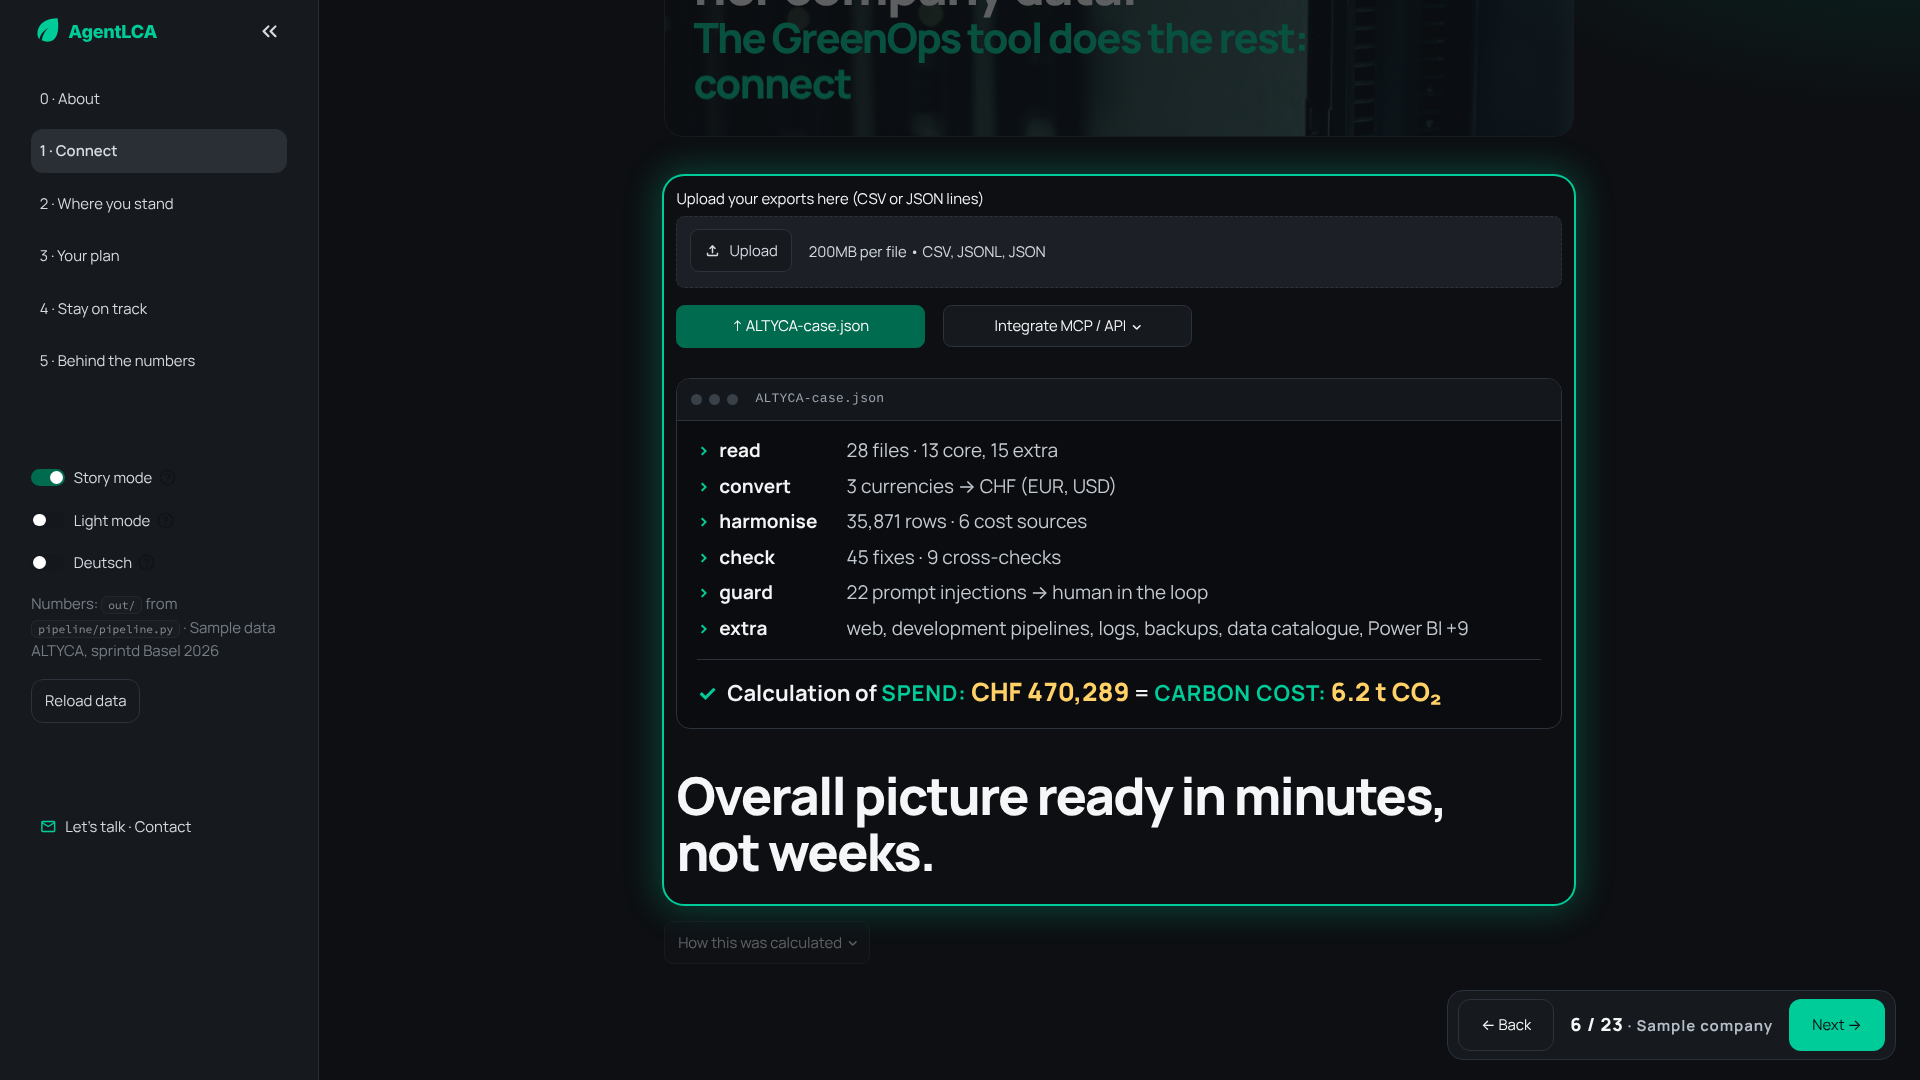
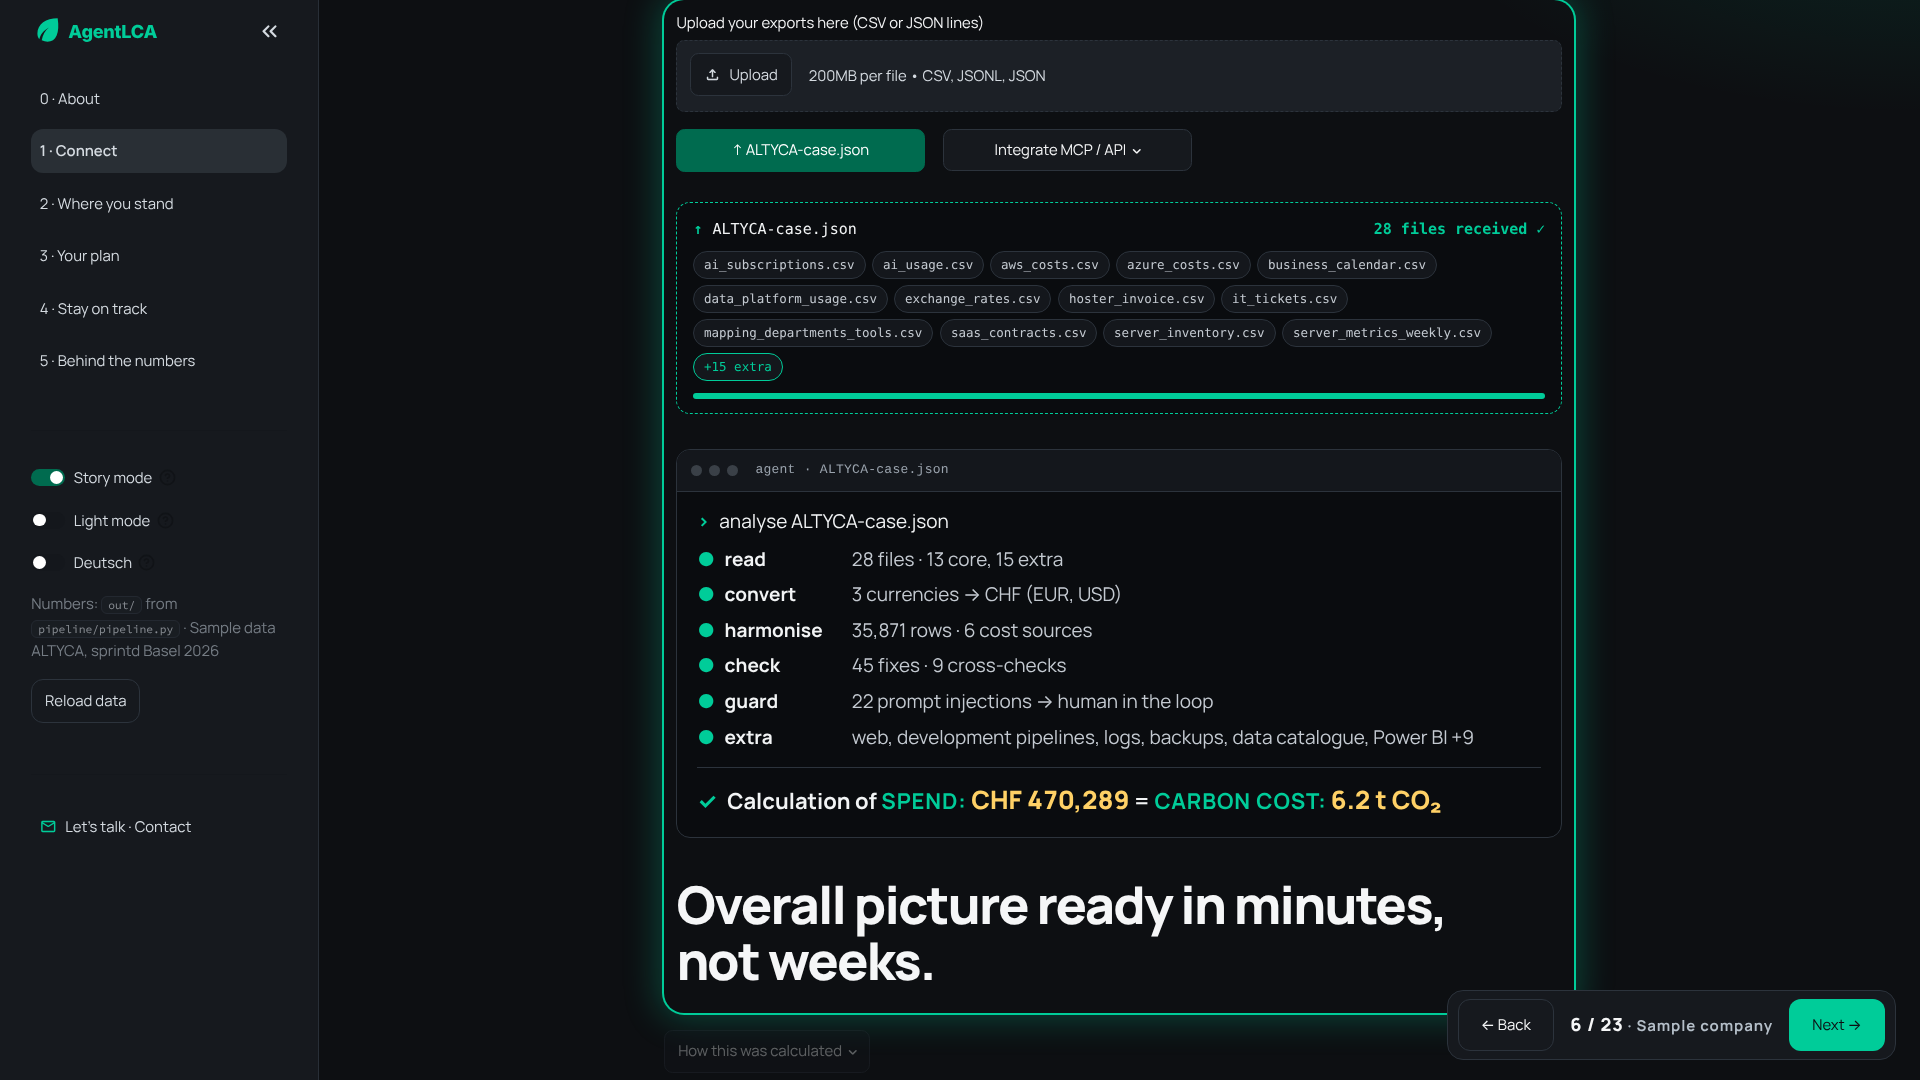
Connect demo: simulated upload (real file names drop in, bar fills, «28 files received») and a Claude-Code-like agent run (typed command, spinning «Working…», steps one by one, result line); CSS only, ≈4.5 s, static without motion
Claude-Session: https://claude.ai/code/session_01X3xYSMquWVTkknJRvK9B19

diff --git a/app/ui.py b/app/ui.py
@@ -48,6 +48,39 @@ def esc(text) -> str:
     return _html.escape(str(text))
 
 CSS = """<style>
+.gx-upsim{background:#0a0c0f;border:1px dashed var(--teal,#00cc99);border-radius:14px;padding:14px 16px;margin:14px 0 4px;}
+.gx-upsim .hd{display:flex;align-items:center;gap:10px;font-family:ui-monospace,SFMono-Regular,Menlo,Consolas,monospace;
+  font-size:15px;color:#f2f4f5;margin-bottom:10px;}
+.gx-upsim .ic{color:#00cc99;font-weight:800;}
+.gx-upsim .ok{margin-left:auto;color:#00cc99;font-weight:700;}
+.gx-upsim .chips{display:flex;flex-wrap:wrap;gap:6px;}
+.gx-upsim .chip{font-family:ui-monospace,SFMono-Regular,Menlo,Consolas,monospace;font-size:12.5px;color:#c4cad1;
+  background:#14171c;border:1px solid var(--line,#262b33);border-radius:999px;padding:3px 10px;}
+.gx-upsim .chip.more{color:#00cc99;border-color:#00cc99;}
+.gx-upsim .prog{height:6px;border-radius:3px;background:#1a2e2a;margin-top:12px;overflow:hidden;}
+.gx-upsim .prog i{display:block;height:100%;width:100%;background:#00cc99;}
+.gx-agent .cmd{color:#f2f4f5;margin-bottom:10px;}
+.gx-agent .work{color:#ffd166;font-weight:700;}
+.gx-agent .spin{display:inline-block;color:#ff8a65;}
+.gx-agent .ln .pr{color:#00cc99;}
+@media (prefers-reduced-motion:no-preference){
+  .gx-upsim .chip{animation:gxChip .45s cubic-bezier(.2,.8,.3,1) both;}
+  .gx-upsim .prog i{animation:gxProg 1.3s ease-out .2s both;}
+  .gx-upsim .ok{animation:gxFadeIn .3s ease-out 1.5s both;}
+  .gx-agent .cmd{animation:gxFadeIn .2s ease-out both;}
+  .gx-agent .typed{display:inline-block;overflow:hidden;white-space:nowrap;vertical-align:bottom;animation:gxTypeW .6s steps(24,end) both;}
+  .gx-agent .work{animation:gxFadeIn .2s ease-out both,gxFadeOut .3s ease-in both;}
+  .gx-agent .spin{animation:gxSpin 1s linear infinite;}
+  .gx-agent .ln{animation:gxLineIn .35s ease-out both;}
+}
+@media (prefers-reduced-motion:reduce){.gx-agent .work{display:none;}}
+@keyframes gxChip{from{opacity:0;transform:translateY(-18px) scale(.9);}}
+@keyframes gxProg{from{width:0;}}
+@keyframes gxFadeIn{from{opacity:0;}}
+@keyframes gxFadeOut{to{opacity:0;height:0;margin:0;padding:0;overflow:hidden;}}
+@keyframes gxTypeW{from{max-width:0;}to{max-width:40ch;}}
+@keyframes gxSpin{to{transform:rotate(360deg);}}
+@keyframes gxLineIn{from{opacity:0;transform:translateX(-10px);}}
 @media (max-width:720px){[data-testid="stHeader"]{background:var(--bg,#0d0f12) !important;box-shadow:0 1px 0 var(--line,#262b33);}}
 [data-testid="stToolbar"]{display:flex !important;visibility:visible !important;}
 [data-testid="stExpandSidebarButton"]{display:flex !important;visibility:visible !important;opacity:1 !important;}
@@ -465,6 +498,38 @@ def breakdown_pop(title: str, parts: list[tuple[str, float]], unit: str, note: s
     nt = f'<p class="nt">{esc(i18n.tr(note, label=False))}</p>' if note else ""
     return (f'<div class="gx-pop" role="tooltip"><p class="tt">{esc(i18n.tr(title))}</p>'
             f'<div class="bar">{seg}</div><ul>{leg}</ul>{nt}</div>')
+
+
+def upload_sim(files: list[str], extra: int, total: int) -> str:
+    """Simulated upload: the real file names drop into a box one by one, a bar fills, then «N files received».
+    CSS only, about 1.8 s; without motion it shows the end state."""
+    chips = "".join(f'<span class="chip" style="animation-delay:{0.06 * i:.2f}s">{esc(f)}</span>'
+                    for i, f in enumerate(files))
+    more = f'<span class="chip more" style="animation-delay:{0.06 * len(files):.2f}s">+{extra} extra</span>' if extra else ""
+    return (f'<div class="gx-upsim"><div class="hd"><span class="ic">↑</span> ALTYCA-case.json '
+            f'<span class="ok">{total} {esc(i18n.tr("files received"))} ✓</span></div>'
+            f'<div class="chips">{chips}{more}</div><div class="prog"><i></i></div></div>')
+
+
+def agent_terminal(title: str, command: str, lines: list[tuple[str, str]], done_html: str, start: float = 1.6) -> str:
+    """Claude-Code-like run: the command types itself, a «✻ Working…» line spins while each step appears with its
+    result, then the result line pops in. CSS only (≈ start + 0.45 s per line); without motion everything shows."""
+    step = 0.35
+    rows = []
+    t = start + 0.6
+    for k, v in lines:
+        rows.append(f'<p class="ln" style="animation-delay:{t:.2f}s"><span class="pr">●</span> <b>{esc(i18n.tr(k))}</b> '
+                    f'{esc(v)}</p>')
+        t += step
+    work_end = t
+    return (f'<div class="gx-term gx-agent"><div class="bar"><i></i><i></i><i></i><span>{esc(title)}</span></div>'
+            f'<div class="body"><p class="cmd" style="animation-delay:{start:.2f}s"><span class="pr">&gt;</span> '
+            f'<span class="typed" style="animation-delay:{start:.2f}s">{esc(command)}</span></p>'
+            f'<p class="work" style="animation-delay:{start + 0.5:.2f}s,{work_end:.2f}s"><span class="spin">✻</span> '
+            f'{esc(i18n.tr("Working"))}<span class="dots">…</span></p>'
+            f'{"".join(rows)}'
+            f'<p class="ok result ln" style="animation-delay:{work_end + 0.1:.2f}s"><span class="pr">✓</span> {done_html}</p>'
+            f'</div></div>')
 
 
 def terminal(title: str, lines: list[tuple[str, str]], done: str, done_html: str = "") -> str:

diff --git a/app/test_app.py b/app/test_app.py
@@ -1172,3 +1172,24 @@ class AboutChapterOrderTests(unittest.TestCase):
         steps = [int(m) for h in html for m in re.findall(r'<p class="k">Step (\d)</p>', h)]
         self.assertEqual(steps, sorted(steps))
         self.assertEqual(steps, [1, 2, 3, 4, 5])
+
+
+class ConnectDemoAnimationTests(unittest.TestCase):
+    def test_upload_sim_and_agent_terminal_use_real_files_and_numbers(self):
+        import sys
+        sys.path.insert(0, str(ROOT / "app"))
+        import data
+        from streamlit.testing.v1 import AppTest
+        c, e = data.connect_stats(), data.energy_totals()
+        at = AppTest.from_file(str(ROOT / "app" / "app.py"), default_timeout=120).run()
+        page = _open(at, "connect")
+        page = next(b for b in page.button if "ALTYCA-case.json" in b.label).click().run()
+        html = " ".join(getattr(h.proto, "body", "") for h in page.get("html"))
+        self.assertIn('class="gx-upsim"', html)
+        self.assertEqual(html.count('class="chip"'), c["core"])
+        self.assertIn(f"+{c['extra']} extra", html)
+        self.assertIn(f"{c['files']} files received", html)
+        self.assertIn('class="gx-term gx-agent"', html)
+        self.assertIn("analyse ALTYCA-case.json", html)
+        flat = re.sub(r"<[^>]+>", "", html).replace("&nbsp;", " ").replace("\\xa0", " ")
+        self.assertIn(f"CHF {e['cost_chf']:,.0f} = CARBON COST: {e['co2_mid'] / 1000:.1f} t CO₂", flat)

diff --git a/app/app.py b/app/app.py
@@ -1122,7 +1122,11 @@ def page_connect() -> None:
               f'<span class="gx-num">CHF&nbsp;{e["cost_chf"]:,.0f}</span> = '
               f'<span class="lbl">{i18n.tr("CARBON COST")}:</span> '
               f'<span class="gx-num">{_tonnes(e["co2_mid"])}&nbsp;t&nbsp;CO₂</span>')
-    st.html(ui.terminal("ALTYCA-case.json", steps, "", done_html=result))
+    # Demo flow (CSS only, ≈5 s): the files drop into the box, then the agent works through them like a terminal.
+    core = sorted(p_.name for p_ in (data.ROOT / "data").glob("*") if p_.suffix in (".csv", ".jsonl")
+                  and not p_.name.startswith("template_"))
+    st.html(ui.upload_sim(core, int(c["extra"]), int(c["files"])))
+    st.html(ui.agent_terminal("agent · ALTYCA-case.json", "analyse ALTYCA-case.json", steps, result))
     ui.hero("", "Overall picture ready in minutes, not weeks.")
     run.__exit__(None, None, None)
     with st.popover("How this was calculated"):

diff --git a/app/i18n.py b/app/i18n.py
@@ -203,6 +203,8 @@ DE: dict[str, str] = {
     "her company data.": "die Daten ihrer Firma.",
     "The GreenOps tool does the rest:": "Das GreenOps-Tool macht den Rest:",
     "Calculation of": "Berechnung von",
+    "files received": "Dateien empfangen",
+    "Working": "Arbeite",
     "lifecycle.": "Lebenszyklus.",
     "cost.": "Kosten.",
     "CARBON COST": "CO₂-KOSTEN",
